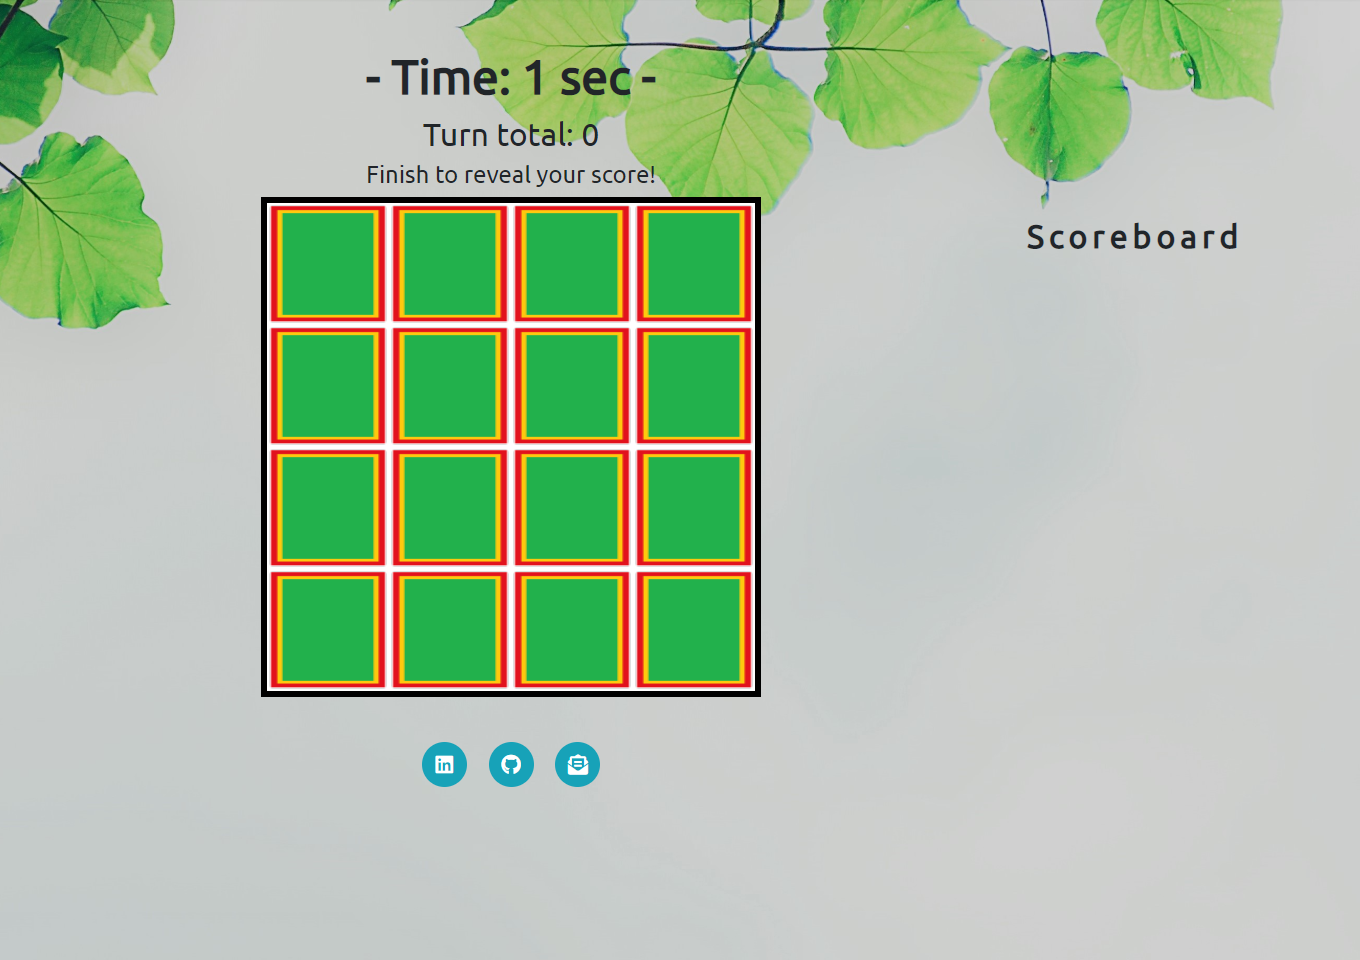
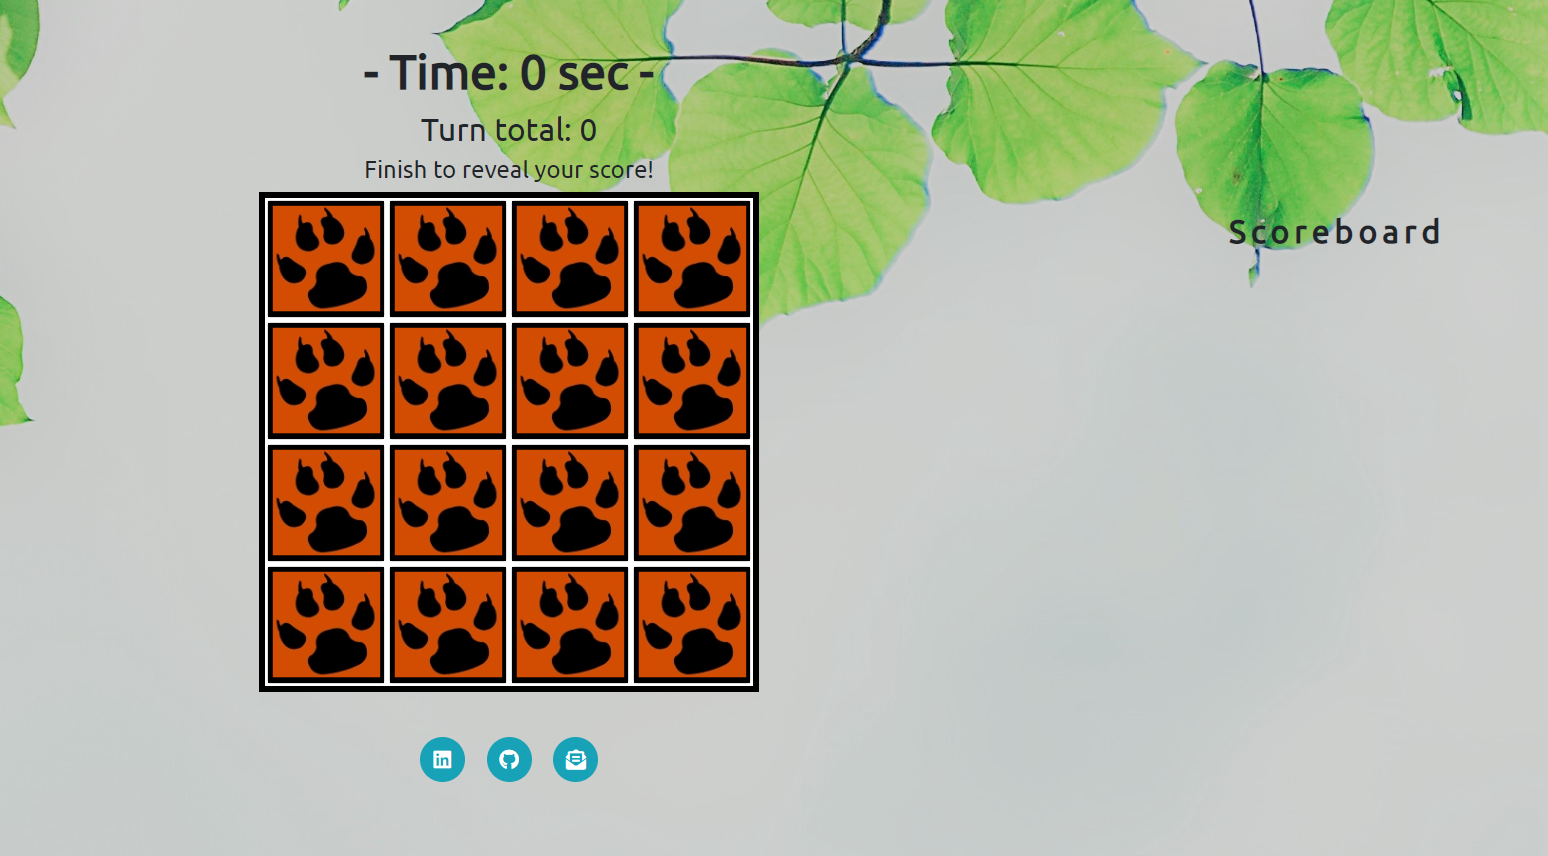
Updated the game with backside picture and links

diff --git a/index.html b/index.html
@@ -7,7 +7,8 @@
 	<link rel="stylesheet" href="https://stackpath.bootstrapcdn.com/bootstrap/4.4.1/css/bootstrap.min.css">
 	<script src="https://kit.fontawesome.com/41a908fb89.js" crossorigin="anonymous"></script>
 	<link rel="stylesheet" href="assets/css/style.css" type="text/css">
-	<title>Memory game</title>
+    <link rel="icon" type="image/png" sizes="16x16" href="assets/images/background/icon.png">
+	<title>Animals</title>
 	<script src="https://cdn.jsdelivr.net/npm/emailjs-com@2.4.1/dist/email.min.js"></script>
 	<script>(function(){emailjs.init("user_wwo3XzSnMgSAR5hgP5jJv");})();</script>
 </head>
@@ -103,6 +104,15 @@
 	<footer>
 		<div>
 			<ul class="list-inline col-12">
+                <li class="list-inline-item footer-icons" data-toggle="tooltip" title="Portfolio"><a href="https://romangrubic.github.io/Roman-Grubic-portfolio/" target="-blank">
+						<i class="fas fa-portrait  footer-icon" aria-hidden="true"></i>
+						<span class="sr-only">Portfolio </span></a></li>
+                <li class="list-inline-item footer-icons" data-toggle="tooltip" title="Snoop"><a href="https://adverts-project.herokuapp.com/home" target="-blank">
+						<i class="fas fa-ad  footer-icon" aria-hidden="true"></i>
+						<span class="sr-only">Snoop</span></a></li>
+                <li class="list-inline-item footer-icons" data-toggle="tooltip" title="Weather 360°"><a href="https://romangrubic.github.io/weather-app-openweather/" target="-blank">
+						<i class="fas fa-cloud-sun-rain  footer-icon" aria-hidden="true"></i>
+						<span class="sr-only">Weather 360° </span></a></li>
 				<li class="list-inline-item">
 					<a href="https://www.linkedin.com/in/roman-grubic-b835ab67/" target="-blank">
 						<i class="fab fa-linkedin" aria-hidden="true"></i>
